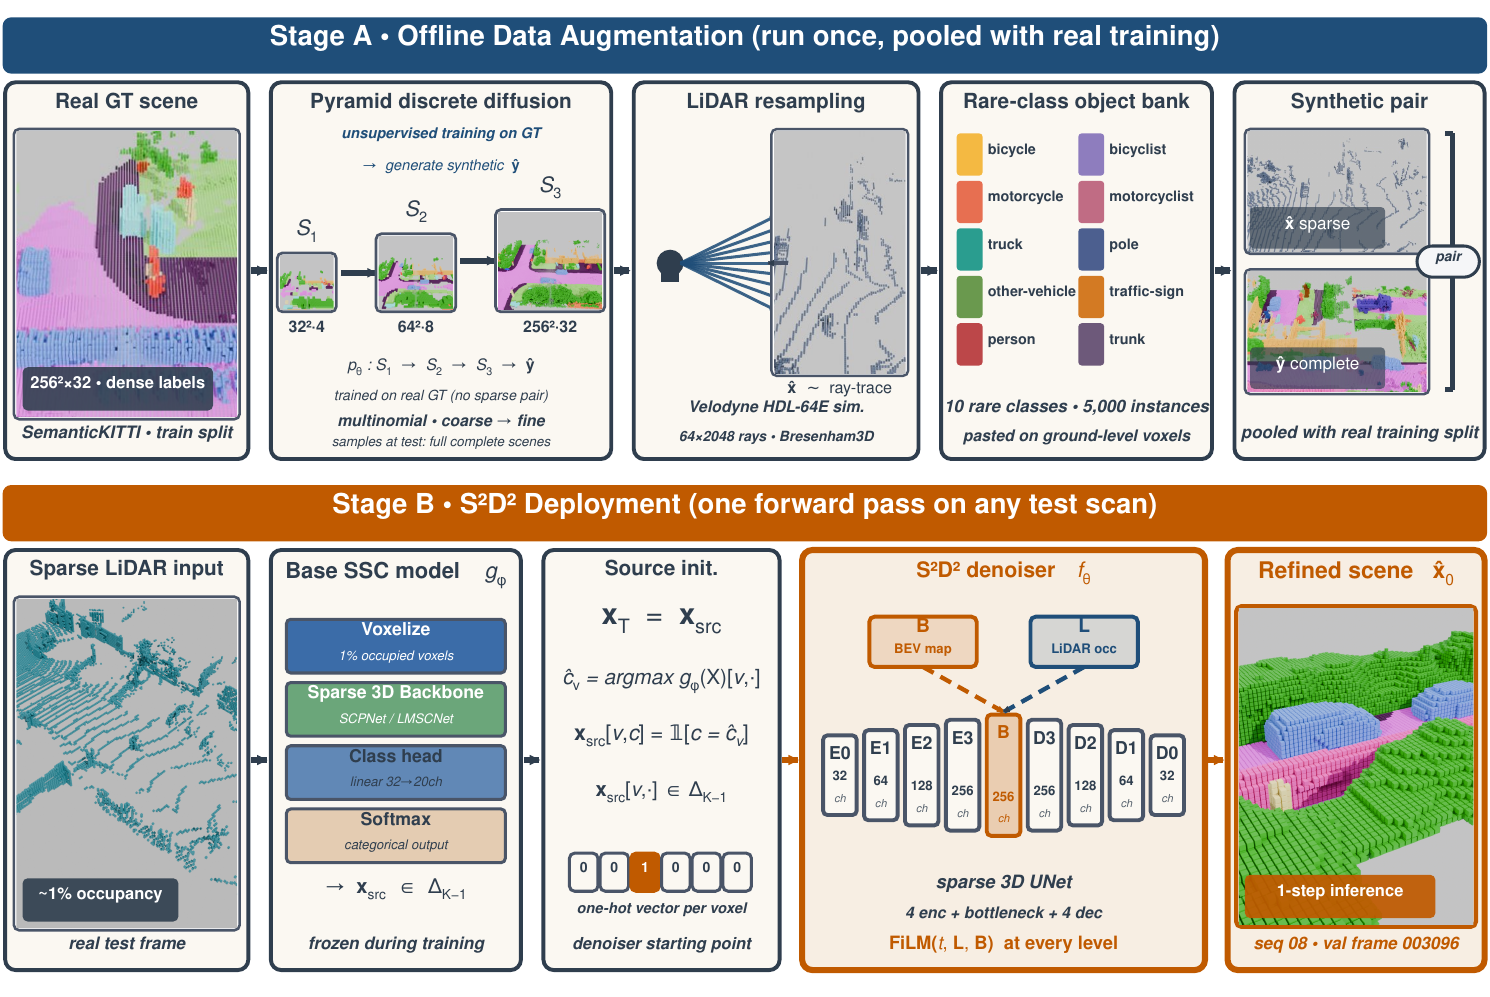
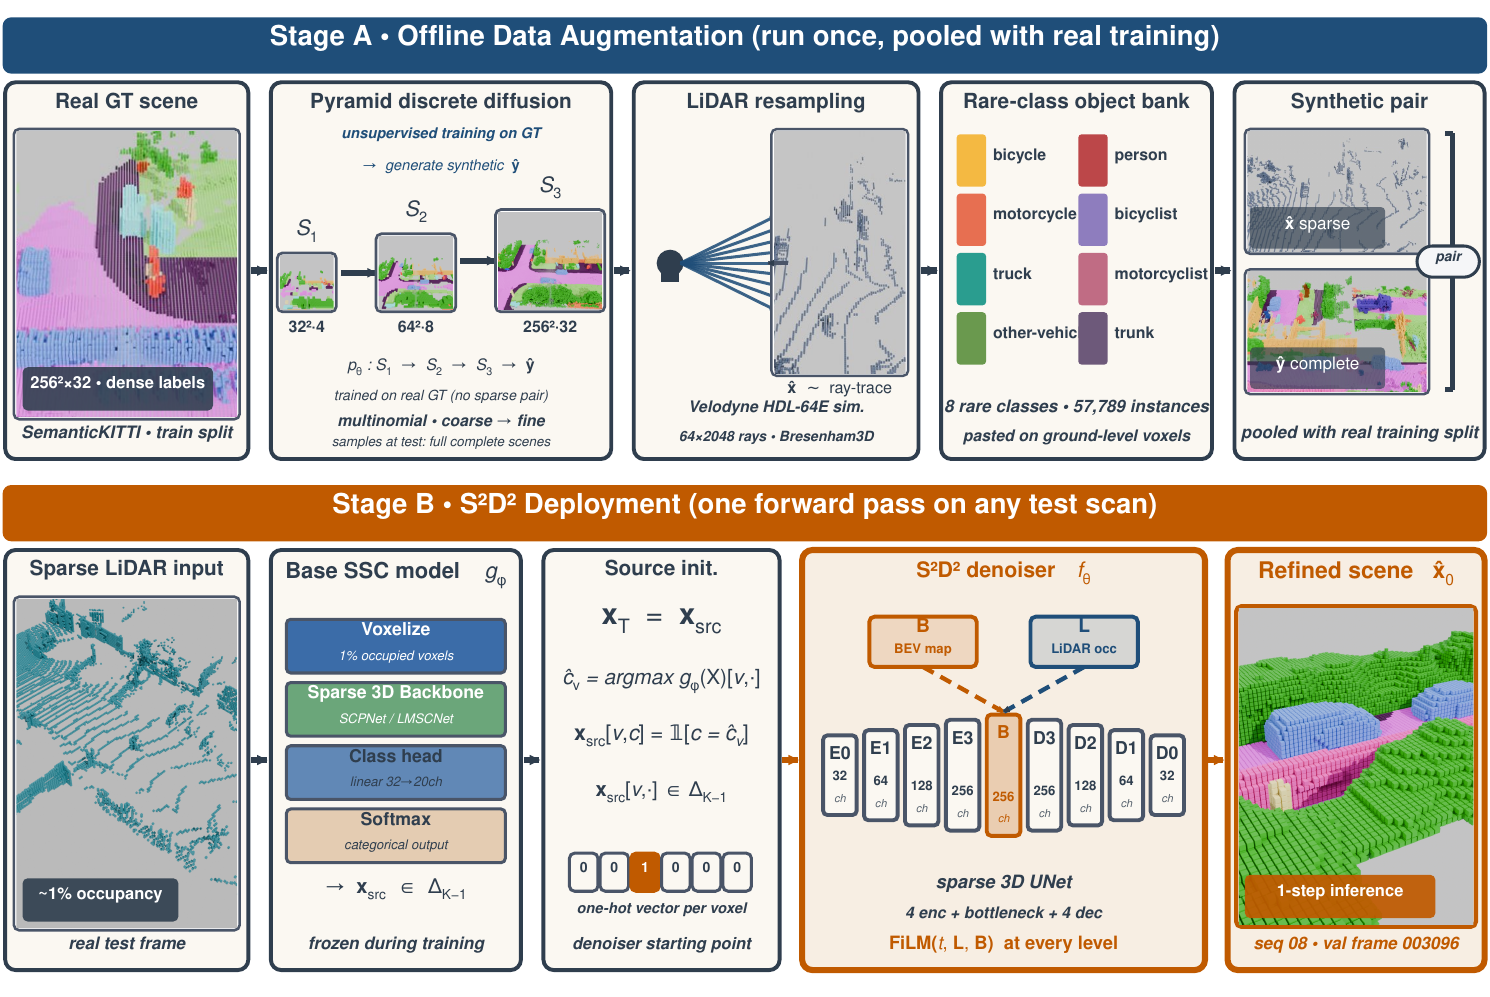
Revert object-bank claim 5,000 / 10 -> 57,789 / 8 in figure caption + alt-text
Sync with the corrected fig2_pipeline_v2.pdf (regenerated by
tools/fig2_draw.py with pole + traffic-sign chips removed). The
training-time bank (datasets/object_bank_3d/) is verified by
the synthetic-pool generation logs to be 57,789 instances across
8 rare classes (bicycle, motorcycle, truck, other-vehicle, person,
bicyclist, motorcyclist, trunk) — NOT the 5,000 / 10 bank that
exists on disk separately.

Changed region(s): [[0.6174, 0.1244, 0.8027, 0.3731], [0.6483, 0.4042, 0.7409, 0.4353]]

diff --git a/index.html b/index.html
@@ -211,10 +211,10 @@
 
   <figure class="figure-wide figure-wide--tight">
     <div class="figure-wide__media">
-      <img src="assets/figures/fig2_pipeline.png" alt="Two-stage pipeline. Stage A — Offline Data Augmentation (run once, pooled with real training): real GT scenes feed pyramid multinomial diffusion at S1=32²·4, S2=64²·8, S3=256²·32; a Velodyne HDL-64E Bresenham3D ray-tracer with 64×2048 rays converts each synthetic complete scene to a matching sparse input; a 5,000-instance / 10-rare-class object bank pastes rare-class instances on ground-level voxels. Stage B — S²D² Deployment (one forward pass on any test scan): a real sparse LiDAR scan is voxelized, passed through a frozen base SSC model (e.g. SCPNet, LMSCNet) to produce x_src, then refined by the S²D² denoiser f_θ — a sparse 3D U-Net with FiLM(t, L, B) modulation at every level — emitting x̂_0 in one Euler step." loading="lazy" />
+      <img src="assets/figures/fig2_pipeline.png" alt="Two-stage pipeline. Stage A — Offline Data Augmentation (run once, pooled with real training): real GT scenes feed pyramid multinomial diffusion at S1=32²·4, S2=64²·8, S3=256²·32; a Velodyne HDL-64E Bresenham3D ray-tracer with 64×2048 rays converts each synthetic complete scene to a matching sparse input; a 57,789-instance / 8-rare-class object bank pastes rare-class instances on ground-level voxels. Stage B — S²D² Deployment (one forward pass on any test scan): a real sparse LiDAR scan is voxelized, passed through a frozen base SSC model (e.g. SCPNet, LMSCNet) to produce x_src, then refined by the S²D² denoiser f_θ — a sparse 3D U-Net with FiLM(t, L, B) modulation at every level — emitting x̂_0 in one Euler step." loading="lazy" />
     </div>
     <figcaption>
-      <strong>Stage&nbsp;A &mdash; Offline data augmentation (run once).</strong> Pyramid multinomial diffusion synthesises complete scenes; an HDL-64E Bresenham3D ray-tracer (64&times;2048 rays) makes them sparse; a balanced 5,000-instance / 10-rare-class object bank (500 per class: bicycle, motorcycle, truck, other-vehicle, person, bicyclist, motorcyclist, pole, traffic-sign, trunk) enriches each scene. <strong>Stage&nbsp;B &mdash; S<sup>2</sup>D<sup>2</sup> deployment (one forward pass).</strong> A frozen base SSC model produces x<sub>src</sub>; a sparse 3D U-Net with FiLM(<em>t</em>, <em>L</em>, <em>B</em>) modulation refines it into x&#770;<sub>0</sub> in a single Euler step. No distillation. Source: paper Fig.&nbsp;2.
+      <strong>Stage&nbsp;A &mdash; Offline data augmentation (run once).</strong> Pyramid multinomial diffusion synthesises complete scenes; an HDL-64E Bresenham3D ray-tracer (64&times;2048 rays) makes them sparse; a 57,789-instance / 8-rare-class object bank (bicycle, motorcycle, truck, other-vehicle, person, bicyclist, motorcyclist, trunk) enriches each scene. <strong>Stage&nbsp;B &mdash; S<sup>2</sup>D<sup>2</sup> deployment (one forward pass).</strong> A frozen base SSC model produces x<sub>src</sub>; a sparse 3D U-Net with FiLM(<em>t</em>, <em>L</em>, <em>B</em>) modulation refines it into x&#770;<sub>0</sub> in a single Euler step. No distillation. Source: paper Fig.&nbsp;2.
     </figcaption>
   </figure>
 
